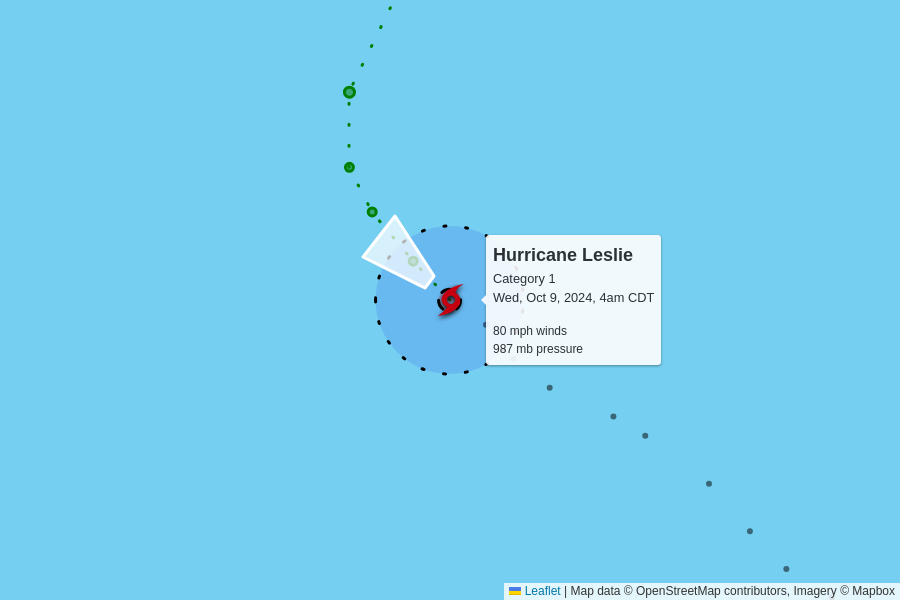
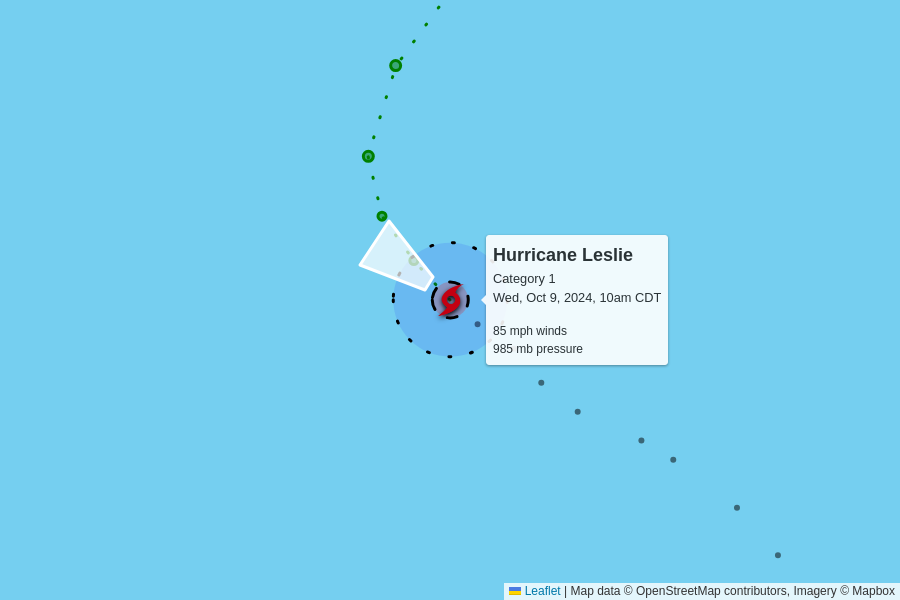
automatic update

diff --git a/docs/index.html b/docs/index.html
@@ -101,10 +101,10 @@
 
     <table>
       <tr>
-        <td colspan="6" class="storm category-4" >
+        <td colspan="6" class="storm category-1" >
           <h2>
-            Hurricane Milton - Category 4
-            <p class="updated">last updated <span data-time>2024-10-09T14:00:00.000Z</span></p>
+            Hurricane Leslie - Category 1
+            <p class="updated">last updated <span data-time>2024-10-09T15:00:00.000Z</span></p>
           </h2>
         </td>
       </tr>
@@ -119,21 +119,21 @@
       </tr>
       <tr>
         <td class="spacer"></td>
-        <td>155 mph<br>0 mph since last update</td>
-        <td>919 mb<br>+1 mb since last update</td>
+        <td>85 mph<br>+5 mph since last update</td>
+        <td>985 mb<br>-2 mb since last update</td>
         <td>
-          16 mph to the northeast
+          10 mph to the northwest
           <br/>
-          <span style="display: inline-block; font-size: 1.5em; transform: rotate(40deg);">↑</span>
+          <span style="display: inline-block; font-size: 1.5em; transform: rotate(305deg);">↑</span>
         </td>
-        <td><a href="https://raw.githubusercontent.com/mgwalker/atlantic-hurricanes/main/data/csv/AL142024.csv">AL142024.csv</a></td>
-        <td><a href="https://www.nhc.noaa.gov/archive/2024/MILTON.shtml?">NHC advisories</a></td>
+        <td><a href="https://raw.githubusercontent.com/mgwalker/atlantic-hurricanes/main/data/csv/AL132024.csv">AL132024.csv</a></td>
+        <td><a href="https://www.nhc.noaa.gov/archive/2024/LESLIE.shtml?">NHC advisories</a></td>
       </tr>
-      <tr id="storm_AL142024" >
+      <tr id="storm_AL132024" >
         <td class="spacer">
         <td colspan="5">
           <figure>
-            <img src="AL142024.png">
+            <img src="AL132024.png">
             <figcaption>
               Map data &copy; <a href="https://www.openstreetmap.org/copyright">OpenStreetMap</a> contributors,
               Imagery &copy; <a href="https://www.mapbox.com/">Mapbox</a> |
@@ -145,10 +145,10 @@
       
 
       <tr>
-        <td colspan="6" class="storm category-1" >
+        <td colspan="6" class="storm category-4" >
           <h2>
-            Hurricane Leslie - Category 1
-            <p class="updated">last updated <span data-time>2024-10-09T09:00:00.000Z</span></p>
+            Hurricane Milton - Category 4
+            <p class="updated">last updated <span data-time>2024-10-09T15:00:00.000Z</span></p>
           </h2>
         </td>
       </tr>
@@ -163,21 +163,21 @@
       </tr>
       <tr>
         <td class="spacer"></td>
-        <td>80 mph<br>0 mph since last update</td>
-        <td>987 mb<br>0 mb since last update</td>
+        <td>145 mph<br>-10 mph since last update</td>
+        <td>931 mb<br>+12 mb since last update</td>
         <td>
-          10 mph to the northwest
+          17 mph to the northeast
           <br/>
-          <span style="display: inline-block; font-size: 1.5em; transform: rotate(310deg);">↑</span>
+          <span style="display: inline-block; font-size: 1.5em; transform: rotate(35deg);">↑</span>
         </td>
-        <td><a href="https://raw.githubusercontent.com/mgwalker/atlantic-hurricanes/main/data/csv/AL132024.csv">AL132024.csv</a></td>
-        <td><a href="https://www.nhc.noaa.gov/archive/2024/LESLIE.shtml?">NHC advisories</a></td>
+        <td><a href="https://raw.githubusercontent.com/mgwalker/atlantic-hurricanes/main/data/csv/AL142024.csv">AL142024.csv</a></td>
+        <td><a href="https://www.nhc.noaa.gov/archive/2024/MILTON.shtml?">NHC advisories</a></td>
       </tr>
-      <tr id="storm_AL132024" >
+      <tr id="storm_AL142024" >
         <td class="spacer">
         <td colspan="5">
           <figure>
-            <img src="AL132024.png">
+            <img src="AL142024.png">
             <figcaption>
               Map data &copy; <a href="https://www.openstreetmap.org/copyright">OpenStreetMap</a> contributors,
               Imagery &copy; <a href="https://www.mapbox.com/">Mapbox</a> |
